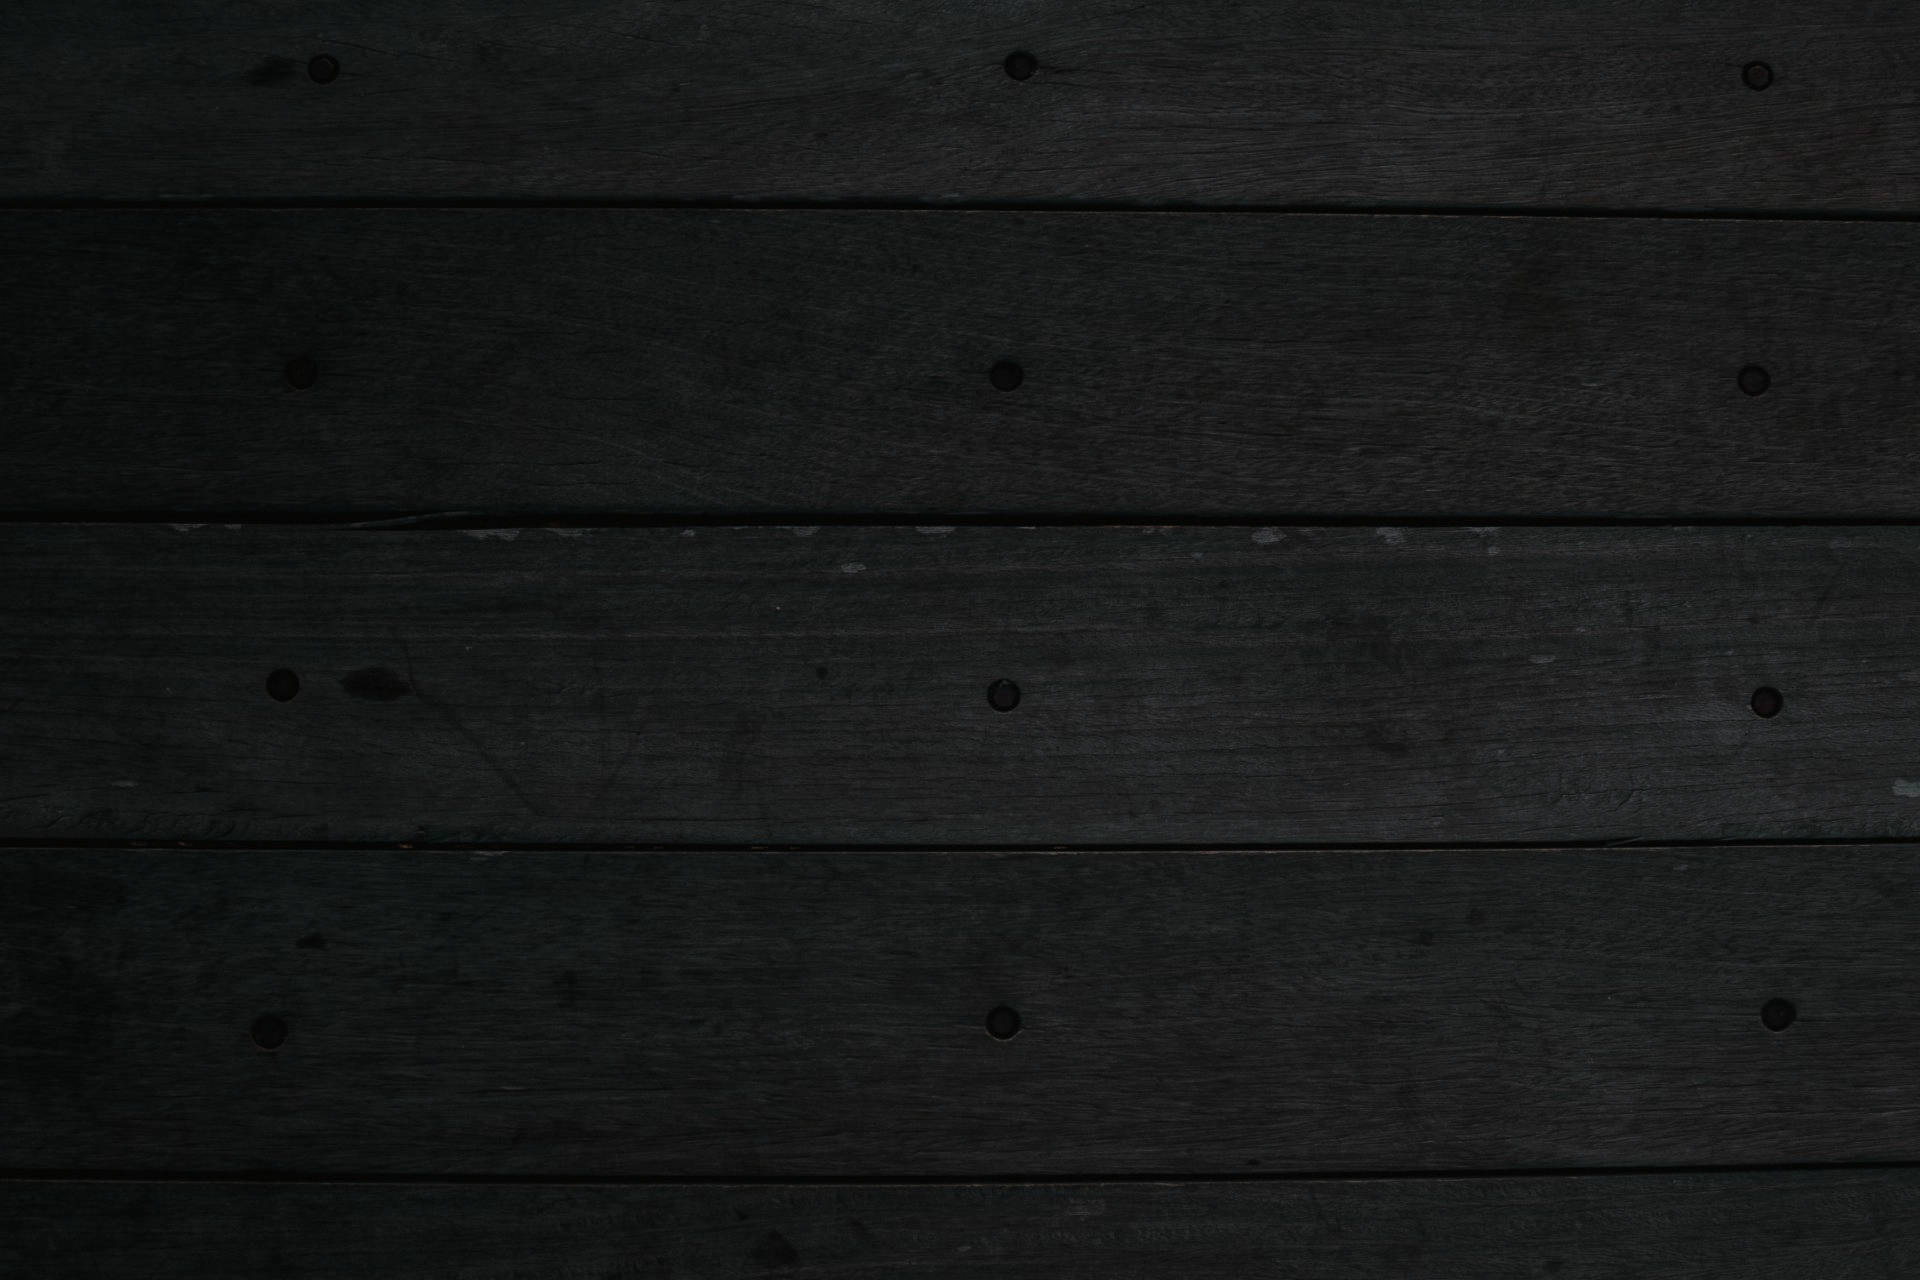
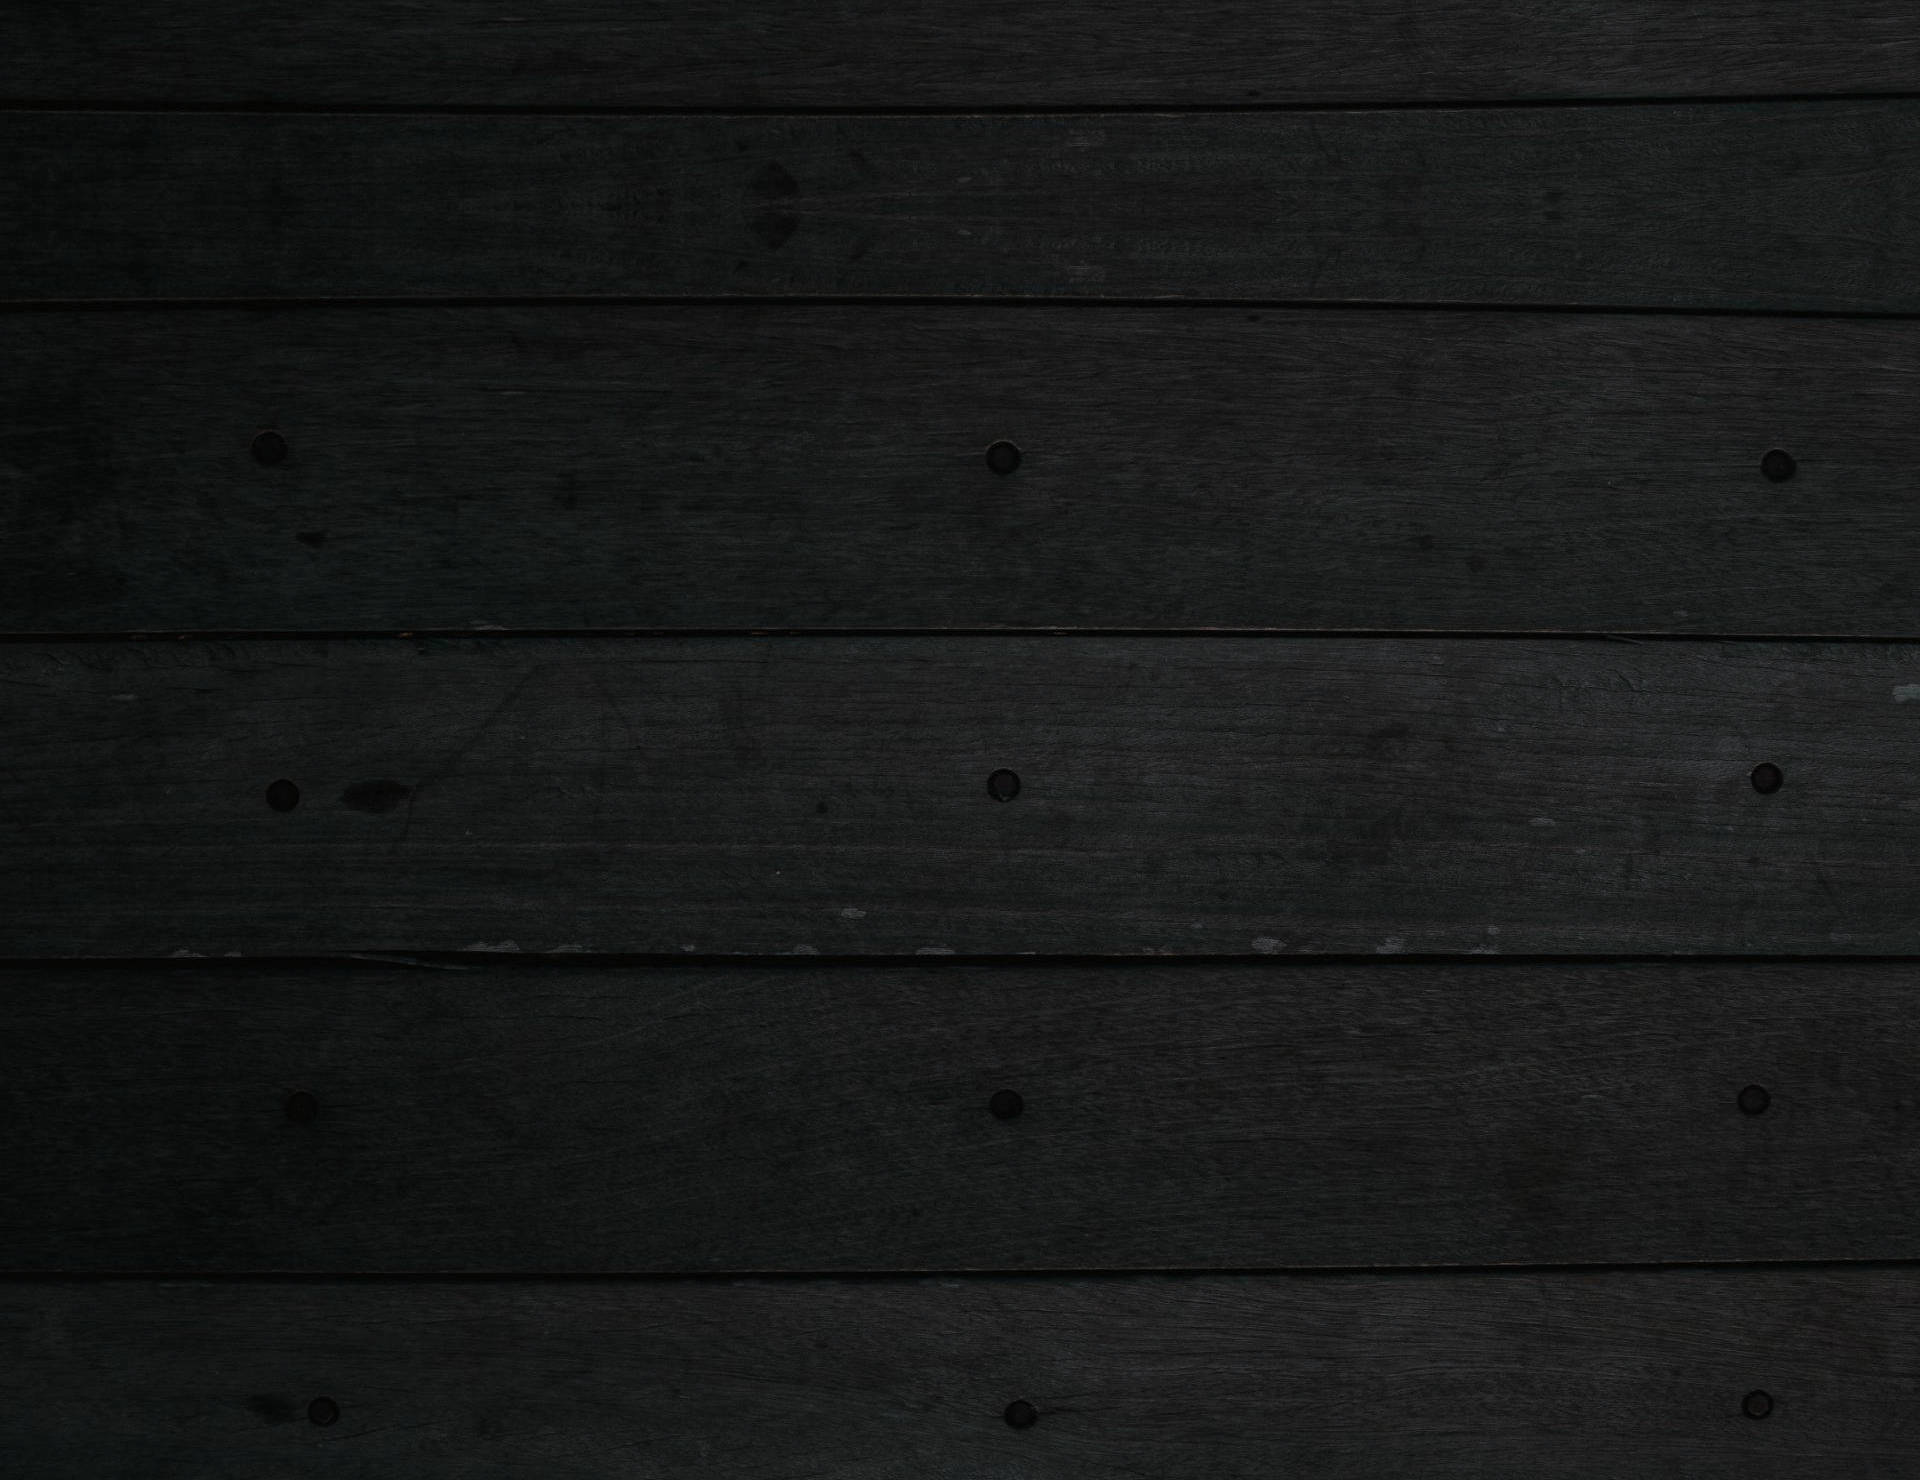
optimize mobile bg-image, font fix

diff --git a/styles/styles.css b/styles/styles.css
@@ -7,15 +7,15 @@
 
 }
 :root { /* Global variables */
-  --bg-color: #2b3338;
-  --front-color: #5c6c78;
-  --font-color: gainsboro;
-  --hi-color: yellow;
+  --bg-color: #151716;
+  --dark-color: #2b3338;
+  --light-color: #5c6c78;
+  --font-color: #dcdcdc;
   --active-color: #5c6c786b;
-  --code-color: whitesmoke;
+  --code-color: #f5f5f5;
   --view-width: 100%;
   /* Custom scrollbar for firefox */
-  scrollbar-color: var(--front-color) var(--bg-color);
+  scrollbar-color: var(--light-color) var(--dark-color);
   scrollbar-width: thin;
 }
 
@@ -25,14 +25,15 @@
   width: 5px;
 }
 ::-webkit-scrollbar-track {
-  background: var(--bg-color);
+  background: var(--dark-color);
 }
 ::-webkit-scrollbar-thumb {
-  background: var(--front-color);
+  background: var(--light-color);
 }
 ::-webkit-scrollbar-thumb:hover {
   background: var(--font-color);
 }
+
 /* || Base styles */
 /******************/
 body {
@@ -45,23 +46,25 @@ body {
   "DejaVu Sans", Verdana, sans-serif;
   font-size: 100%;
   background-image: url("../images/wood.jpg");
-  /*background-blend-mode: multiply;*/
   background-attachment: fixed;
+  background-position: center top;
+  background-repeat: no-repeat;
 }
 
 h1, h2, h3, h4, h5 {
   color: var(--font-color);
   padding: 0.5rem;
 }
-h2 { /* Site -heading */
+h2 { /* Page "code"-heading */
   font-family: 'Courier New', Courier, monospace;
   font-weight: normal;
   font-size: 1.2rem;
   padding: 0.5rem;
   color: var(--code-color);
+  text-align: center;
 }
 h3 { /* Main section -heading */
-  font-size: 2rem;
+  font-size: 1.8rem;
   margin: 1rem;
 }
 h4 { /* Portfolio 'place' -heading*/
@@ -69,7 +72,7 @@ h4 { /* Portfolio 'place' -heading*/
   font-weight: bold;
 }
 
-h5 { /* Content -heading */
+.content h3 { /* Content -heading */
   font-size: 1.2rem;
   font-weight: bold;
   margin-left: 1rem;
@@ -81,14 +84,14 @@ p {
   margin-bottom: 0;
 }
 i {
-  color: var(--front-color);
+  color: var(--light-color);
 }
 
 /* || Kuvien määritykset */
 /***************************/
 .image {
   /** 'Thumbnail' -kuvien kehykset **/
-  border: 0.125rem solid var(--front-color);
+  border: 0.125rem solid var(--light-color);
   border-radius: 13px;
   padding: 0.125rem;
   margin: 0.375rem;
@@ -105,7 +108,7 @@ i {
 /*********************************/
 /* || Header, Footer, Navigation */
 nav {
-  /*background-color: var(--bg-color);*/
+  /*background-color: var(--dark-color);*/
   display: flex;
   justify-content: space-between;
   margin: 0.5rem 2rem;
@@ -139,12 +142,12 @@ nav a:any-link {
   padding: 0.5rem 1.5rem 0.5rem 1.5rem;
 }
 nav a:hover {
-  background-color: var(--front-color);
+  background-color: var(--light-color);
   border-radius: 0.8rem;
 }
 .active {
   /*background-color: var(--active-color);*/
-  border: 1px solid var(--front-color);
+  border: 1px solid var(--light-color);
   border-top-width: 0;
   border-bottom-width: 3px;
   border-radius: 1rem;
@@ -154,16 +157,16 @@ header h1 {
   letter-spacing: 0.5rem;
   font-size: 4rem;
   text-align: center;
-  border-bottom: 2px solid var(--bg-color);
+  border-bottom: 2px solid var(--dark-color);
 }
 header h2 {
   text-align: center;
   /*TODO: tekstin levyinen kehys -> h2:n viiva pois */
-  /*border: 1px solid var(--front-color);
+  /*border: 1px solid var(--light-color);
   border-radius: 1rem;
   border-width: 1px 0 3px 0;*/
   /* display: inline-block;
-  background-color: var(--front-color);
+  background-color: var(--light-color);
   width: 600px;
   margin-left: auto;
   border-radius: 1rem;*/
@@ -180,7 +183,7 @@ footer a:any-link {
   padding: 0 1rem 0 1rem
 }
 footer a:hover {
-  color: var(--front-color);
+  color: var(--light-color);
 }
 
 /***************/
@@ -194,11 +197,11 @@ footer a:hover {
   align-items: flex-start;
 }
 .left-cont, .right-cont {
-  border: 1px solid var(--front-color);
+  border: 1px solid var(--light-color);
   border-radius: 2rem;
   border-left-width: 3px;
   border-right-width: 0;
-  /*background-color: var(--bg-color);*/
+  /*background-color: var(--dark-color);*/
   min-width: 29rem;
   padding: 1rem 0.5;
   margin: 1rem;
@@ -233,7 +236,7 @@ footer a:hover {
 
 .portfolio {
   /*DEV*//*border: 1px dashed red;*/
-  /*background-color: var(--bg-color);*/
+  /*background-color: var(--dark-color);*/
   color: var(--font-color);
   border-spacing: 0;
   padding: 0 1rem;
@@ -247,7 +250,7 @@ footer a:hover {
   padding: 1rem 0.5rem;
 }
 .portfolio td.place {
-  border: 1px solid var(--front-color);
+  border: 1px solid var(--light-color);
   border-radius: 3em;
 }
 .portfolio td.time {
@@ -268,9 +271,6 @@ footer a:hover {
 /* || Mobile-optimization */
 /*TODO: 390px min portofoliolle*/
 @media only screen and (max-width: 630px) {
-  body {
-    background-size:inherit;
-  }
   header h1 {
     font-size: 2.5rem;
   }
@@ -307,4 +307,10 @@ footer a:hover {
     border-radius: 1rem;
     padding: 0;
   }
+}
+
+@media only screen and (max-width: 630px) and (orientation: portrait) {
+  body {
+    background-image: url("../images/wood_potrait.jpg");
+   }
 }

diff --git a/harrastukset.html b/harrastukset.html
@@ -34,7 +34,7 @@
   </header>
   <section class="content">
     <article class="left-cont">
-      <h5> Kotiverkon suunnittelu ja toteutus</h5>
+      <h3> Kotiverkon suunnittelu ja toteutus</h3>
       <p>
         <i class="fas fa-network-wired fa-3x fa-pull-left"></i>
         Muutimme alkuvuonna -21 uuteen paritaloon, jossa oli CAT6-sisäverkkokaapelointi joka huoneessa.
@@ -47,7 +47,7 @@
         Lisää asiasta <a href="http://oletsu.blogspot.com/search/label/Kotiverkko">blogissani</a>.
       </p>
 
-      <h5>Raspberry Pi ja Linux</h5>
+      <h3>Raspberry Pi ja Linux</h3>
       <p>
         <i class="fab fa-raspberry-pi fa-3x fa-pull-left"></i>
         Tutustuin Raspberry-tietokoneeseen sen ensimmäisen version aikaan.
@@ -60,7 +60,7 @@
         Projekti löytyy github-palvelusta: <a href="https://github.com/millerii/rpi-temp-logger">rpi-temp-logger</a>
       </p>
 
-      <h5>Ohjelmointi</h5>
+      <h3>Ohjelmointi</h3>
       <p>
         <i class="fas fa-code fa-3x fa-pull-left"></i>
         Ohjelmointiharrastuksen olen aloittanut Visual Basic:llä yläaste-aikoina 800-sivuista opusta lukemalla
@@ -79,7 +79,7 @@
           <img class="image" src="images/codesys_nappipeli.jpg" alt="Nappipeli"></a>
       </p>
 
-      <h5>Blogi</h5>
+      <h3>Blogi</h3>
       <p>
         <i class="fas fa-paragraph fa-3x fa-pull-left"></i>
         Täydentelen aika-ajoin myös omaa blogia, <a href="https://blog.ollit.dev">
@@ -87,7 +87,7 @@
       </p>
     </article>
     <article class="right-cont">
-      <h5>3D-suunnittelu</h5>
+      <h3>3D-suunnittelu</h3>
       <p>
         <i class="fas fa-cubes fa-3x fa-pull-left"></i>
         Oman 3D-tulostimen rakentamisen jälkeen innostuin 3D-mallintamisesta
@@ -103,7 +103,7 @@
           <img class="image" src="images/fusion_penkki_rendered.jpg" alt="Fusion-penkki renderöity"></a>
       </p>
 
-      <h5>Puutyöt</h5>
+      <h3>Puutyöt</h3>
       <p>
         Puutyöt ovat rauhan tyyssija, missä saa ilman kiirettä näpertää omilla käsillä
         ja näkee oman kädenjälkensä samantien.<br>
@@ -114,7 +114,7 @@
           <img class="image" src="images/viiniteline.jpg" alt="Viiniteline"></a>
       </p>
 
-      <h5>Liikunta</h5>
+      <h3>Liikunta</h3>
       <p>
         <i class="fas fa-biking fa-3x fa-pull-left"></i>
         Lapsena pyöräilin paljon ja yksi muistuvin matka oli, kun pyöräilimme isän kanssa mummolaan isostakyröstö

diff --git a/index.html b/index.html
@@ -36,7 +36,7 @@
   </header>
   <section class="content">
     <article class="left-cont">
-      <h5>hei</h5>
+      <h3>hei</h3>
       <p>
         Sivusto on tehty JAMKin valintakoeopintojaksolla
         Urasuunnitelma??!

diff --git a/portfolio.html b/portfolio.html
@@ -28,7 +28,7 @@
 
 <!-- Content -->
 <section>
-  <header class="koodi">
+  <header>
     <h2>&gt;$ pandoc työ_ja_koulutus.txt -s -o portfolio.html </h2>
   </header>
   <section class="flex-portfolio">
